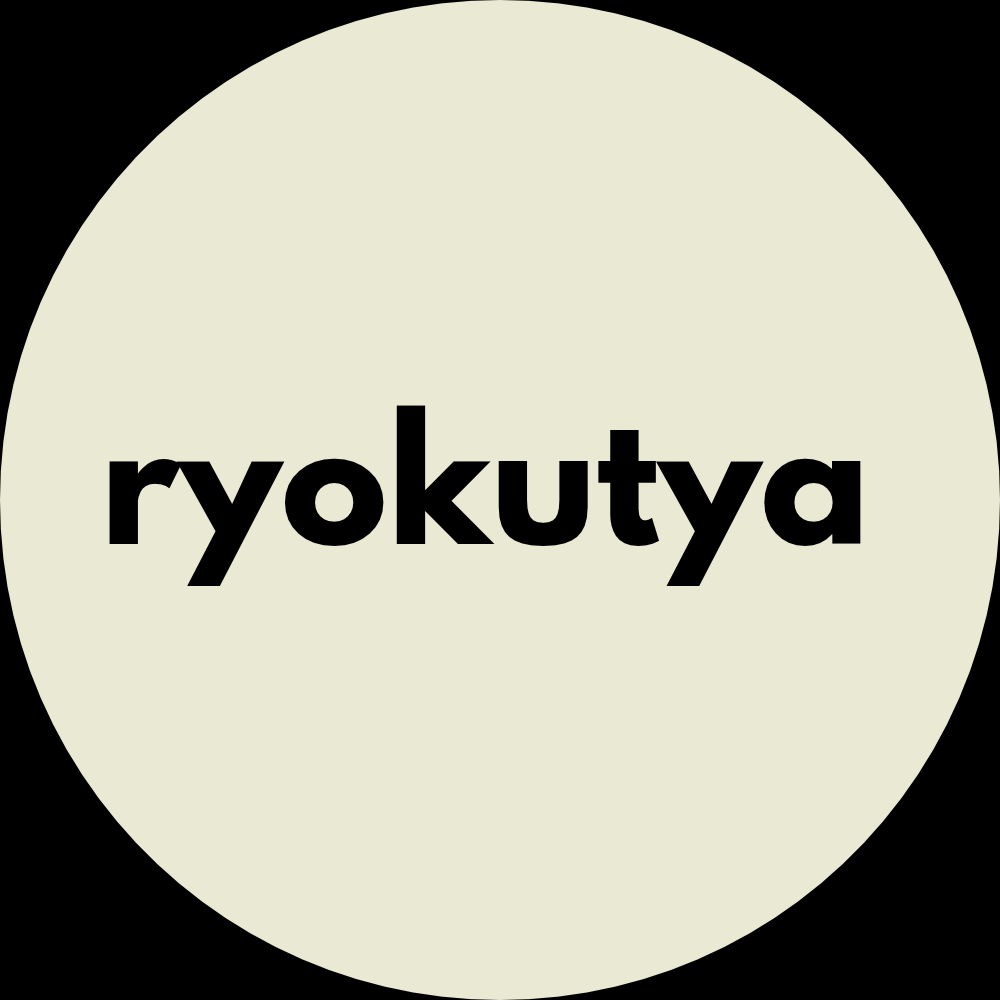
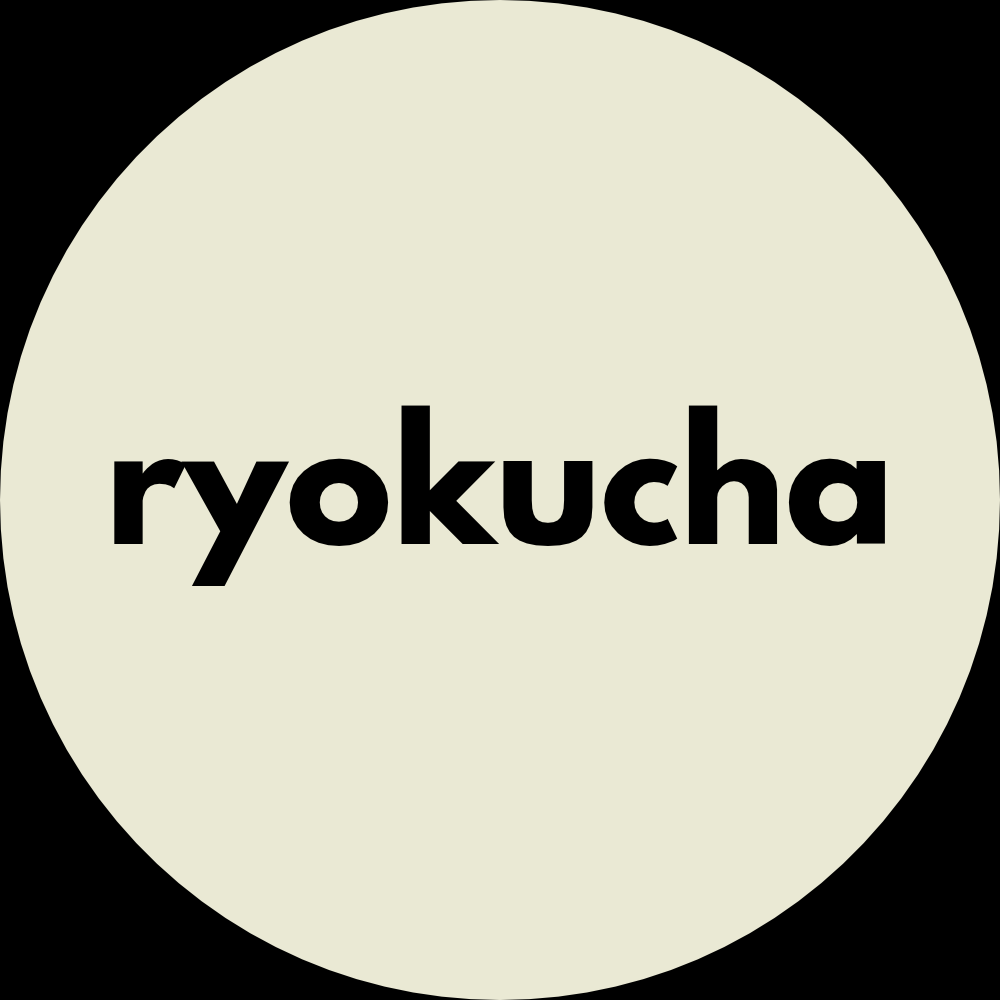
名前を修正

Changed region(s): [[0.093, 0.403, 0.899, 0.589]]

diff --git a/index.html b/index.html
@@ -5,7 +5,7 @@
     <meta http-equiv="Content-Type" content="text/html; charset=UTF-8">
 
     <meta name="viewport" content="width=device-width,initial-scale=1">
-    <title>ryokutya — YouTube Channel</title>
+    <title>ryokucha — YouTube Channel</title>
     <link rel="stylesheet" href="style.css">
 </head>
 
@@ -14,7 +14,7 @@
         <header>
             <nav class="nav"><a class="brand"
                     href="#top"><span
-                        class="mark"><img alt="ryokutya" src="icon-black.png"></span><span>ryokutyaのおうち</span></a>
+                        class="mark"><img alt="ryokucha" src="icon-black.png"></span><span>ryokuchaのおうち</span></a>
                 <div class="navlinks"><a
                         href="#videos">Videos</a><a
                         href="#about">About</a><a
@@ -27,7 +27,7 @@
             <section class="hero">
                 <div>
                     <div class="eyebrow reveal"><span class="dot"></span> YouTube Creator</div>
-                    <h1 class="reveal reveal-delay-1">ryoku<span>tyaのおうち</span></h1>
+                    <h1 class="reveal reveal-delay-1">ryoku<span>chaのおうち</span></h1>
                     <p class="lead reveal reveal-delay-2">動画を通して、日常の「ちょっといい」を届けるチャンネル。ここでは最新動画や活動内容をまとめています。
                     </p>
                     <div class="actions reveal reveal-delay-3"><a class="btn primary"
@@ -36,7 +36,7 @@
                             href="#videos">動画一覧</a>
                     </div>
                 </div>
-                <div class="visual reveal"><img alt="ryokutya"
+                <div class="visual reveal"><img alt="ryokucha"
                     style="width:min(88%,430px);aspect-ratio:1;display:block;object-fit:contain;border-radius:50%;box-shadow:0 0 90px rgba(50,232,117,.08)"
                     src="icon-black.png">
                 </div>
@@ -73,7 +73,7 @@
                 <div class="section-head reveal">
                     <div>
                         <div class="kicker">About</div>
-                        <h2 class="section-title">ryokutyaについて</h2>
+                        <h2 class="section-title">ryokuchaについて</h2>
                     </div>
                 </div>
                 <div class="about">
@@ -96,10 +96,10 @@
                         <h2>最新動画をチェック</h2>
                         <p>新しい動画はYouTubeで公開しています。</p>
                     </div><a class="btn primary" href="https://www.youtube.com/channel/UCPVfHYzoLzMQmktLtxaW4mQ"
-                        target="_blank" rel="noreferrer">@ryokutya を見る ↗</a>
+                        target="_blank" rel="noreferrer">@ryokucha を見る ↗</a>
                 </div>
             </section>
-            <footer><span>© 2026 ryokutya</span><span>Made for YouTube creator</span></footer>
+            <footer><span>© 2026 ryokuchaのおうち</span><span>Made for YouTube creator</span></footer>
         </main>
     </div>
     <script src="script.js"></script>

diff --git a/style.css b/style.css
@@ -180,9 +180,10 @@ main {
 }
 
 h1 {
-    font-size: 88px;
+    font-size: 64px;
     line-height: .95;
     letter-spacing: -.06em;
+    white-space: nowrap;
     margin: 20px 0 18px
 }
 
@@ -503,7 +504,7 @@ footer {
 
 @media(max-width:560px) {
     h1 {
-        font-size: 56px
+        font-size: 36px
     }
 
     .videos {
@@ -540,7 +541,7 @@ footer {
     }
 
     h1 {
-        font-size: 48px
+        font-size: 30px
     }
 
     .btn {
